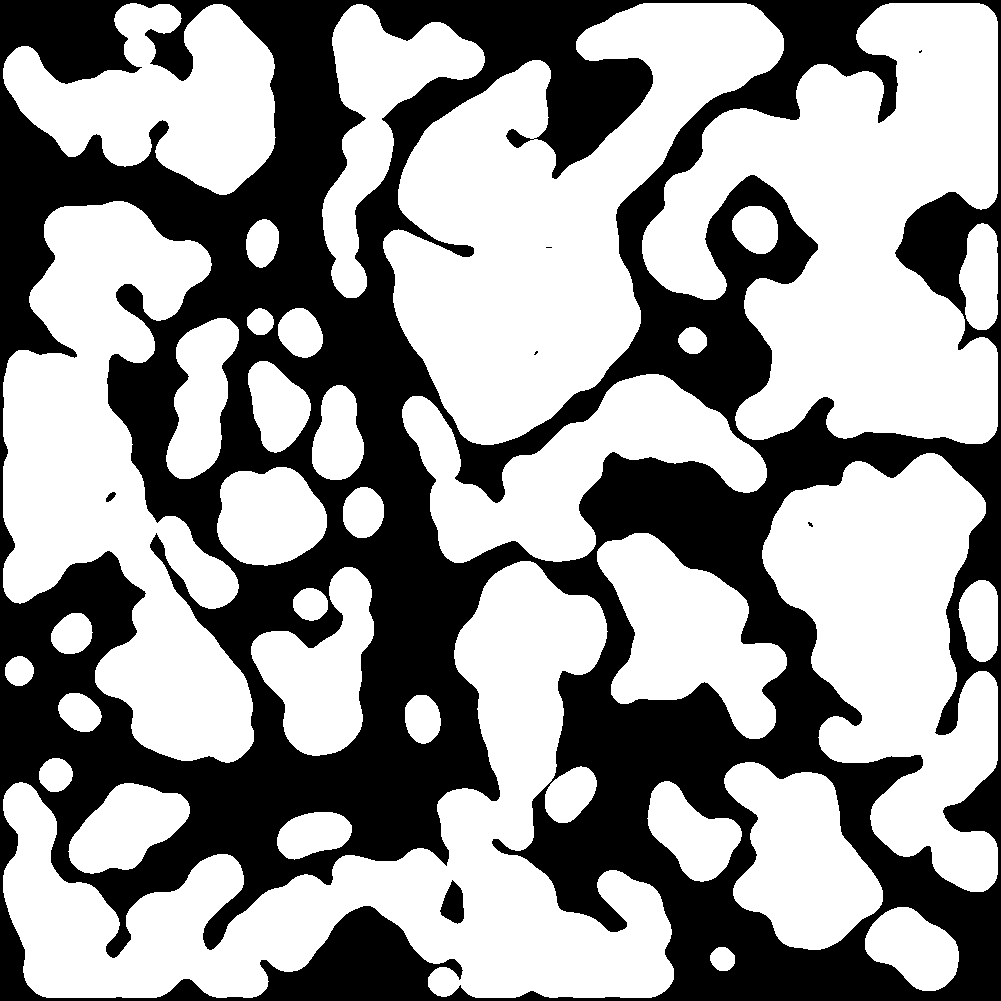
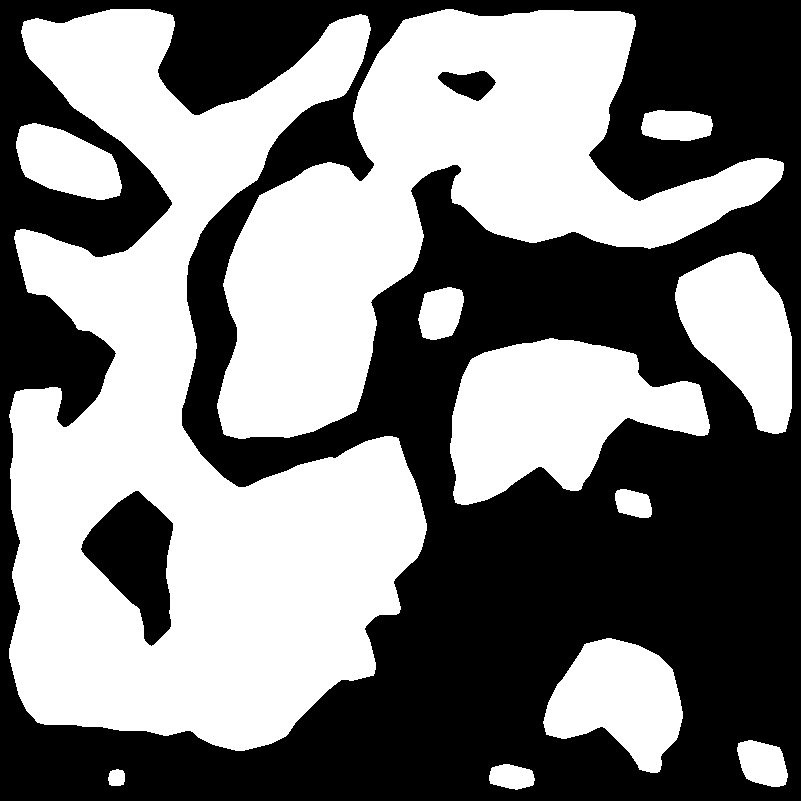
Refactor: More accurate highway map

diff --git a/world_maker/data_analysis.py b/world_maker/data_analysis.py
@@ -130,18 +130,17 @@ def filter_smooth(image: Union[str, Image], radius: int = 3):
     return Image.fromarray(bool_array)
 
 
-def remove_water_from_map(image: Union[str, Image]) -> Image:
+def subtract_map(image: Union[str, Image], substractImage: Union[str, Image]) -> Image:
     image = handle_import_image(image)
-    watermap = Image.open('./data/watermap.png').convert('L')
+    substractImage = handle_import_image(substractImage).convert('L')
 
     array_heightmap = np.array(image)
-    array_watermap = np.array(watermap)
+    array_substractImage = np.array(substractImage)
 
-    mask = array_watermap == 255
+    mask = array_substractImage == 255
     array_heightmap[mask] = 0
 
-    result_image = Image.fromarray(array_heightmap)
-    return result_image
+    return Image.fromarray(array_heightmap)
 
 
 def group_map(image1: Union[str, Image], image2: Union[str, Image]) -> Image:
@@ -164,21 +163,32 @@ def filter_smooth_array(array: np.ndarray, radius: int = 3) -> np.ndarray:
     return array
 
 
+def filter_remove_details(image: Union[str, Image], n: int = 20) -> Image:
+    image = handle_import_image(image)
+    array = np.array(image)
+    for _ in range(n):
+        array = ndimage.binary_dilation(array, iterations=4)
+        array = ndimage.binary_erosion(array, iterations=5)
+        array = filter_smooth_array(array, 2)
+        array = ndimage.binary_erosion(array, iterations=3)
+    image = Image.fromarray(array)
+    return image
+
+
 def highway_map() -> Image:
     smooth_sobel = filter_smooth("./data/sobelmap.png", 1)
-    inverse_sobel = filter_negative(smooth_sobel)
-    sobel_no_water = remove_water_from_map(inverse_sobel)
-    sobel_no_water.save("./data/negative_sobel_water_map.png")
-    array = np.array(sobel_no_water)
-    array = ndimage.binary_erosion(array, iterations=10)
-    array = ndimage.binary_dilation(array, iterations=5)
-    array = filter_smooth_array(array, 5)
-    array = ndimage.binary_erosion(array, iterations=17)
-    array = filter_smooth_array(array, 6)
-    array = ndimage.binary_dilation(array, iterations=3)
-    image = Image.fromarray(array)
-    image.save('./data/highwaymap.png')
-    return image
+    negative_smooth_sobel = filter_negative(smooth_sobel)
+    negative_smooth_sobel_water = subtract_map(negative_smooth_sobel, './data/watermap.png')
+    array_sobel_water = np.array(negative_smooth_sobel_water)
+    array_sobel_water = ndimage.binary_erosion(array_sobel_water, iterations=12)
+    array_sobel_water = ndimage.binary_dilation(array_sobel_water, iterations=5)
+    array_sobel_water = filter_smooth_array(array_sobel_water, 5)
+    array_sobel_water = ndimage.binary_erosion(array_sobel_water, iterations=20)
+    array_sobel_water = filter_smooth_array(array_sobel_water, 6)
+    image = Image.fromarray(array_sobel_water)
+    image_no_details = filter_remove_details(image, 15)
+    image_no_details.save('./data/highwaymap.png')
+    return image_no_details
 
 
 def create_volume(surface: np.ndarray, heightmap: np.ndarray, make_it_flat: bool = False) -> np.ndarray:

diff --git a/world_maker/world_maker.py b/world_maker/world_maker.py
@@ -3,8 +3,7 @@ from PIL import Image
 from data_analysis import get_data, highway_map, filter_sobel, skeleton_highway_map
 
 if __name__ == '__main__':
-    #world = World.World()
-    #heightmap, watermap, treemap = get_data(world)
+    world = World.World()
+    heightmap, watermap, treemap = get_data(world)
     filter_sobel("./data/heightmap.png").save('./data/sobelmap.png')
-    highway_map()
-    skeleton_highway_map(Image.open('./data/highwaymap.png'))
+    skeleton_highway_map(highway_map())
